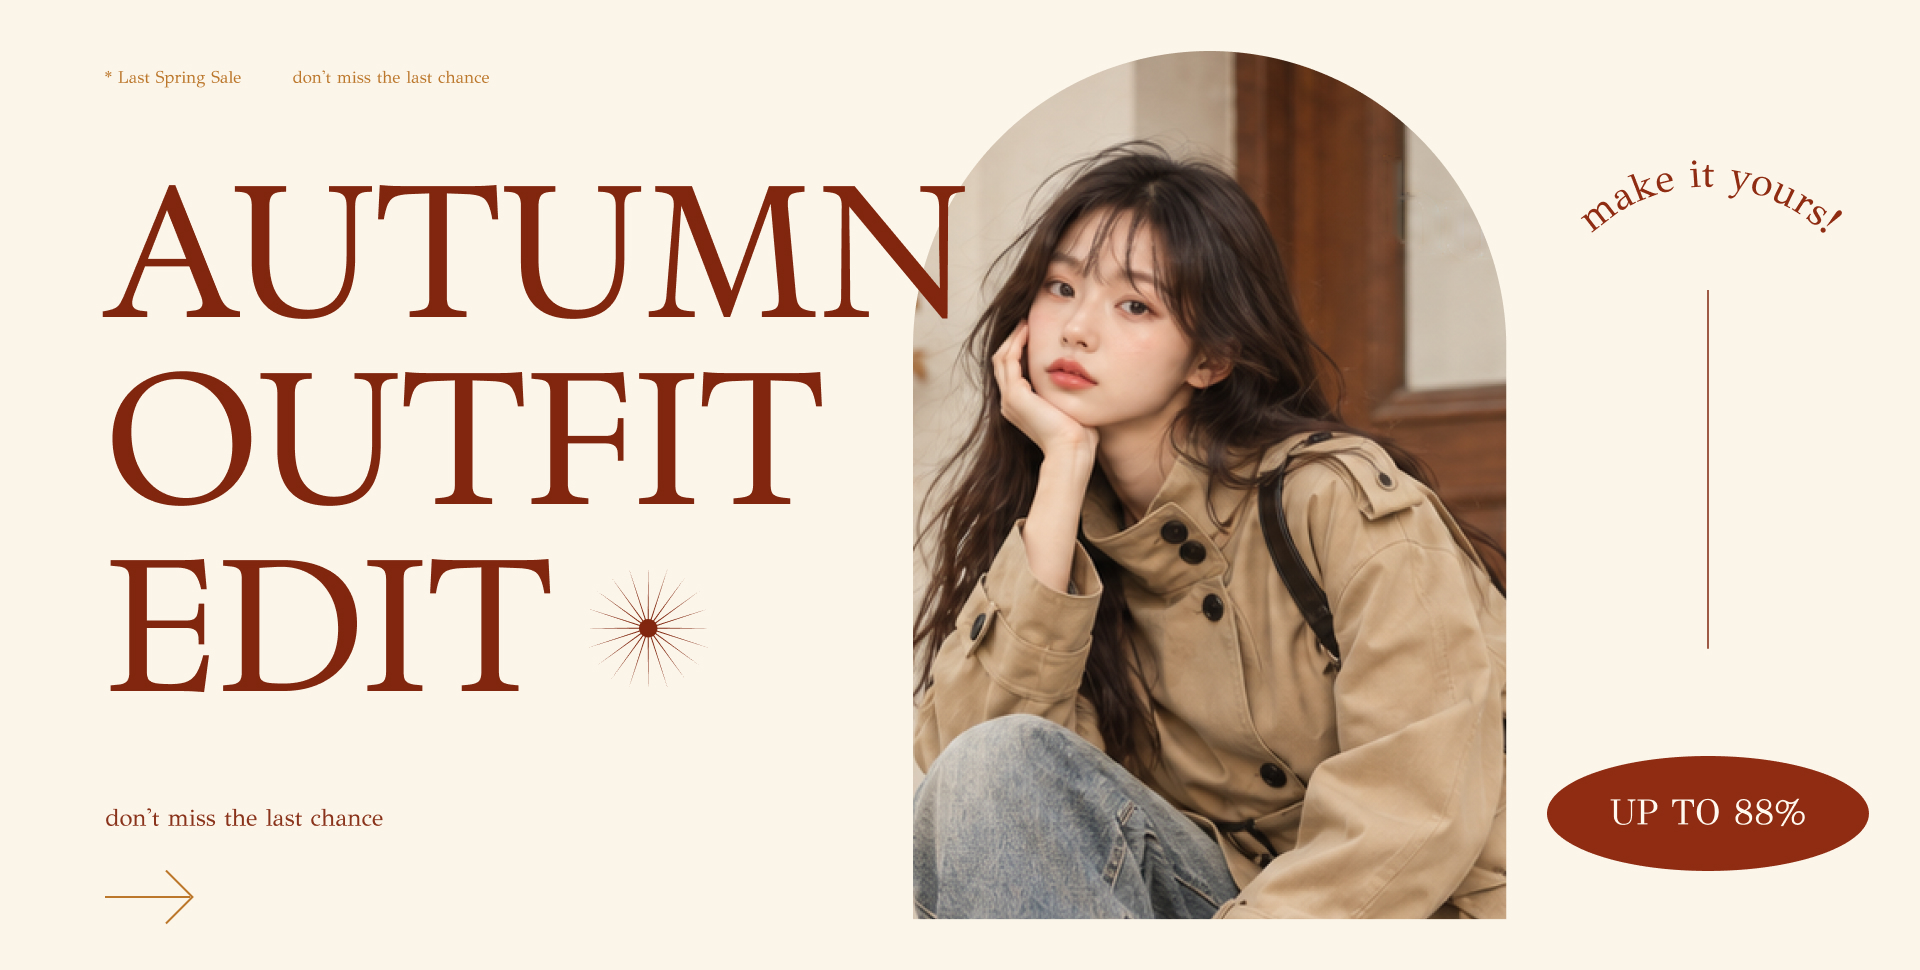
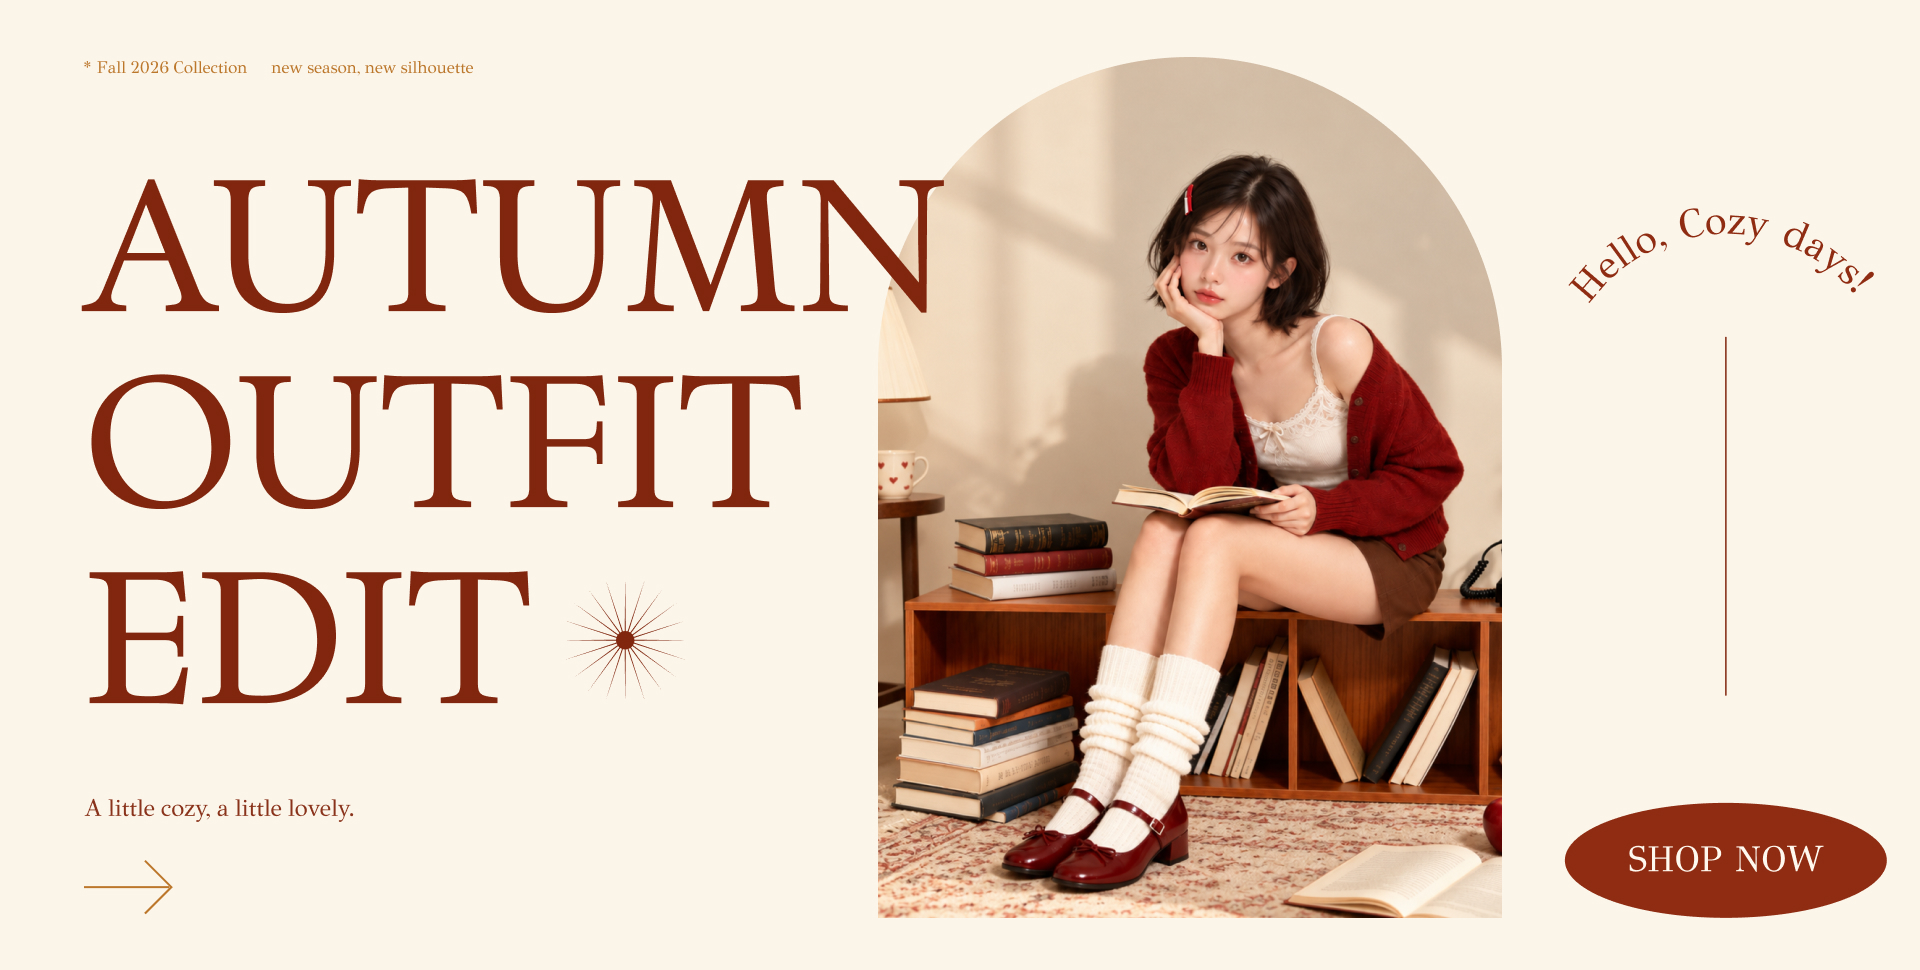
배너 추가 및 수정

diff --git a/visual-works.html b/visual-works.html
@@ -65,8 +65,8 @@
       <div class="asset-slider asset-slider--banner reveal" data-visual-carousel>
         <button class="asset-slider__arrow asset-slider__arrow--prev" type="button" data-carousel-prev aria-label="이전 배너 보기">←</button>
         <div class="asset-grid asset-grid--wide" data-carousel-track tabindex="0" aria-label="배너 작업 슬라이드">
-          <a class="asset-card" href="./assets/folder/banner/Croissantjpg.jpg" target="_blank"><figure><img src="./assets/folder/banner/Croissantjpg.jpg" alt="밀크 플레이버 크루아상 소개 배너" loading="lazy" /></figure><div><strong>Milk Flavor Croissant</strong><span>Digital Banner · 01</span><p>크루아상의 질감이 돋보이는 클로즈업과 크림 톤 배경, 레드 곡선으로 고소하고 부드러운 풍미를 표현했습니다.</p></div></a>
-          <a class="asset-card" href="./assets/folder/banner/autumn-outfit.jpg" target="_blank"><figure><img src="./assets/folder/banner/autumn-outfit.jpg" alt="가을 아웃핏 패션 시즌 세일 배너" loading="lazy" /></figure><div><strong>Autumn Outfit Edit</strong><span>Digital Banner · 02</span><p>따뜻한 뉴트럴 컬러와 가을 스타일링 이미지를 활용해 시즌 룩과 최대 할인 혜택을 함께 소개했습니다.</p></div></a>
+          <a class="asset-card" href="./assets/folder/banner/autumn-outfit.jpg" target="_blank"><figure><img src="./assets/folder/banner/autumn-outfit.jpg" alt="2026 가을 컬렉션 Autumn Outfit Edit 배너" loading="lazy" /></figure><div><strong>Autumn Outfit Edit</strong><span>Digital Banner · 01</span><p>크림 톤 배경과 버건디 타이포그래피, 아치형 스타일링 이미지로 포근한 가을 컬렉션의 분위기를 전달했습니다.</p></div></a>
+          <a class="asset-card" href="./assets/folder/banner/Croissantjpg.jpg" target="_blank"><figure><img src="./assets/folder/banner/Croissantjpg.jpg" alt="밀크 플레이버 크루아상 소개 배너" loading="lazy" /></figure><div><strong>Milk Flavor Croissant</strong><span>Digital Banner · 02</span><p>크루아상의 질감이 돋보이는 클로즈업과 크림 톤 배경, 레드 곡선으로 고소하고 부드러운 풍미를 표현했습니다.</p></div></a>
           <a class="asset-card" href="./assets/folder/banner/asistobe-ample copy.jpg" target="_blank"><figure><img src="./assets/folder/banner/asistobe-ample copy.jpg" alt="ASIS-TOBE 앰플 스킨케어 배너" loading="lazy" /></figure><div><strong>ASIS-TOBE Healthy Glow</strong><span>Digital Banner · 03</span><p>핑크 톤의 앰플 비주얼과 'Healthy Glow' 메시지를 중심으로 제품의 촉촉한 보습감을 강조한 스킨케어 배너입니다.</p></div></a>
           <a class="asset-card" href="./assets/folder/banner/banner1-2.jpg" target="_blank"><figure><img src="./assets/folder/banner/banner1-2.jpg" alt="안구건조증 진료 안내 배너" /></figure><div><strong>안구건조증 진료 안내 캠페인</strong><span>Digital Banner · 04</span><p>증상 중심의 헤드라인과 체크리스트를 배치해 진료 필요성을 빠르게 인지하고 상담으로 이어지도록 구성했습니다.</p></div></a>
         </div>
